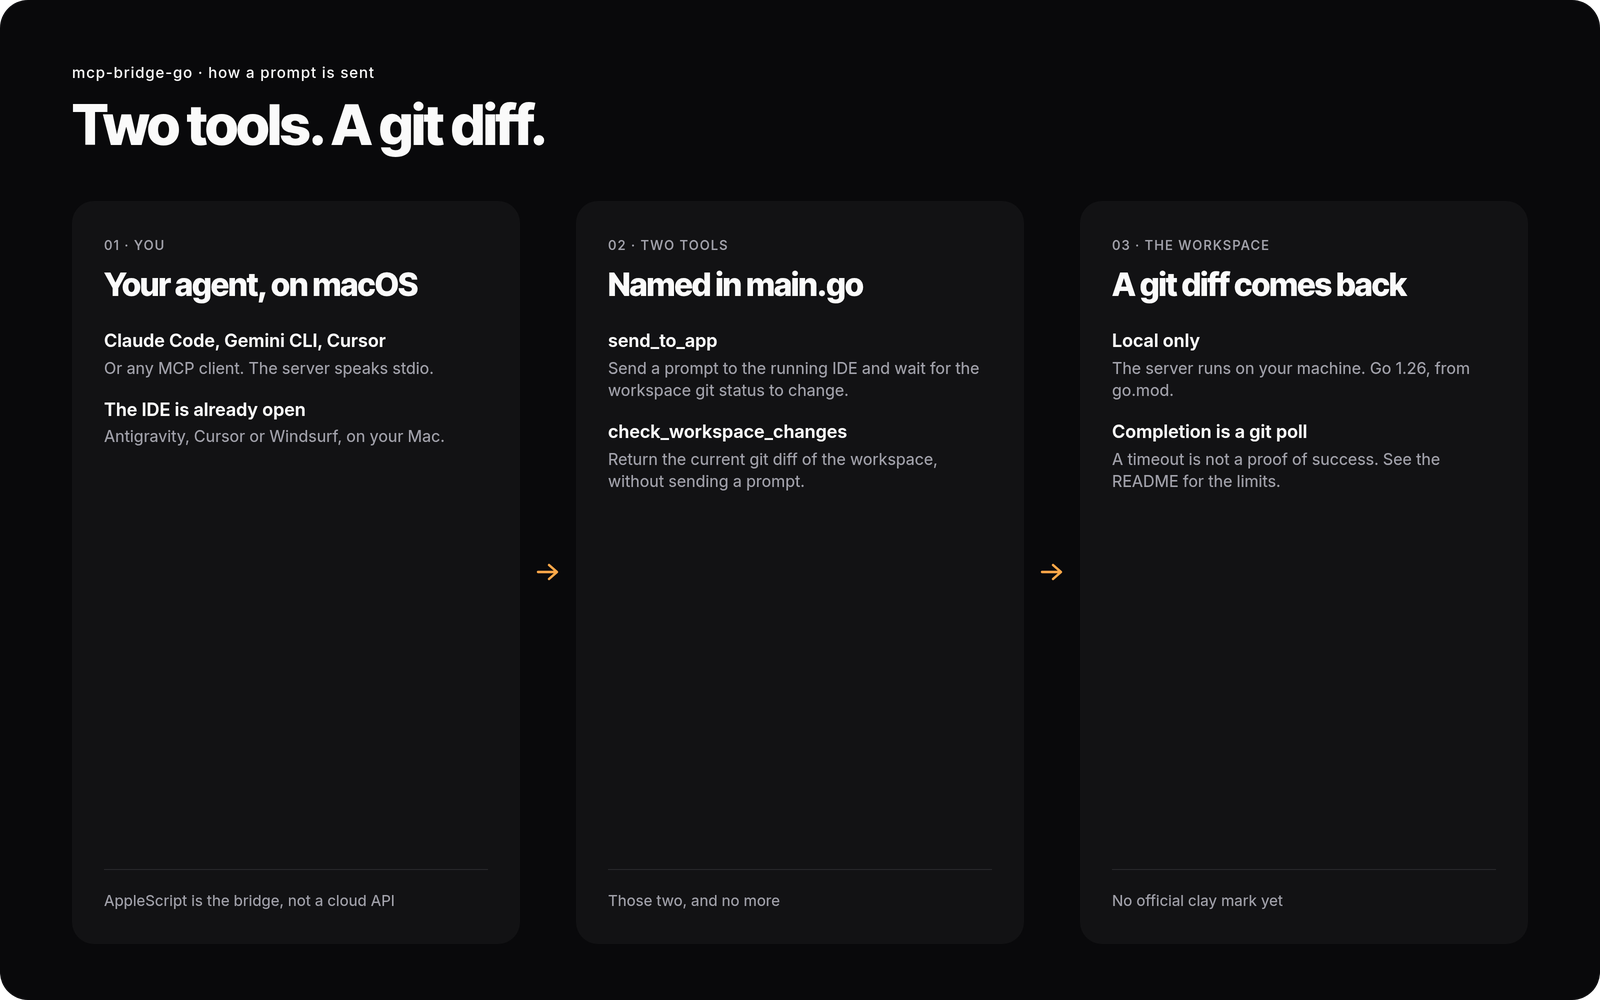
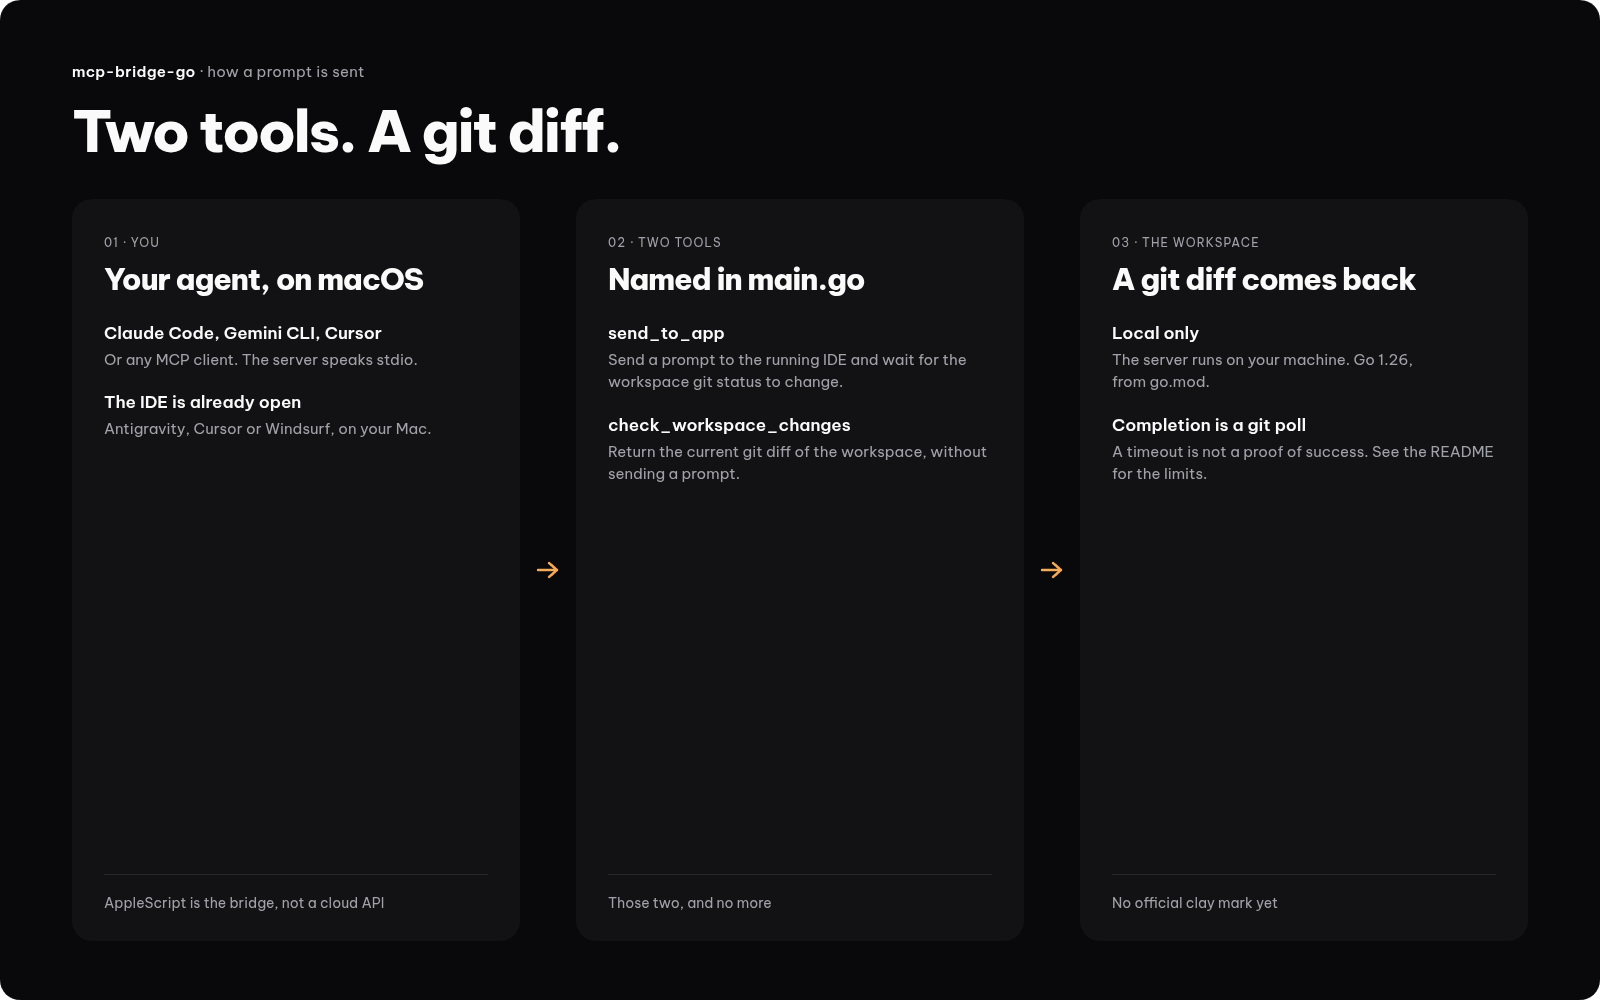
docs: re-render README assets in Be Vietnam Pro (#5)

diff --git a/docs/images/readme/PROVENANCE.md b/docs/images/readme/PROVENANCE.md
@@ -4,4 +4,4 @@
 mcp-bridge-go has no official hub mark (`SOURCES.txt` on the hub). The right-hand card is type only. Nothing was invented as a mark. Accent #fca849.
 
 ## Covers, flow diagrams, and social preview
-Family-matched cards, 1600×720 covers, 1600×1000 flow, 1280×640 social. Inter Tight and Inter. Dark #09090b, light #f4f4f5. Footer: FREE + source-available (PolyForm Shield).
+Family-matched cards, 1600×720 covers, 1600×1000 flow, 1280×640 social. Be Vietnam Pro (400, 600, 800), re-rendered on 2026-11-16 to match the DESIGN:OS family font. Dark #09090b, light #f4f4f5. Footer: FREE + source-available (PolyForm Shield).
